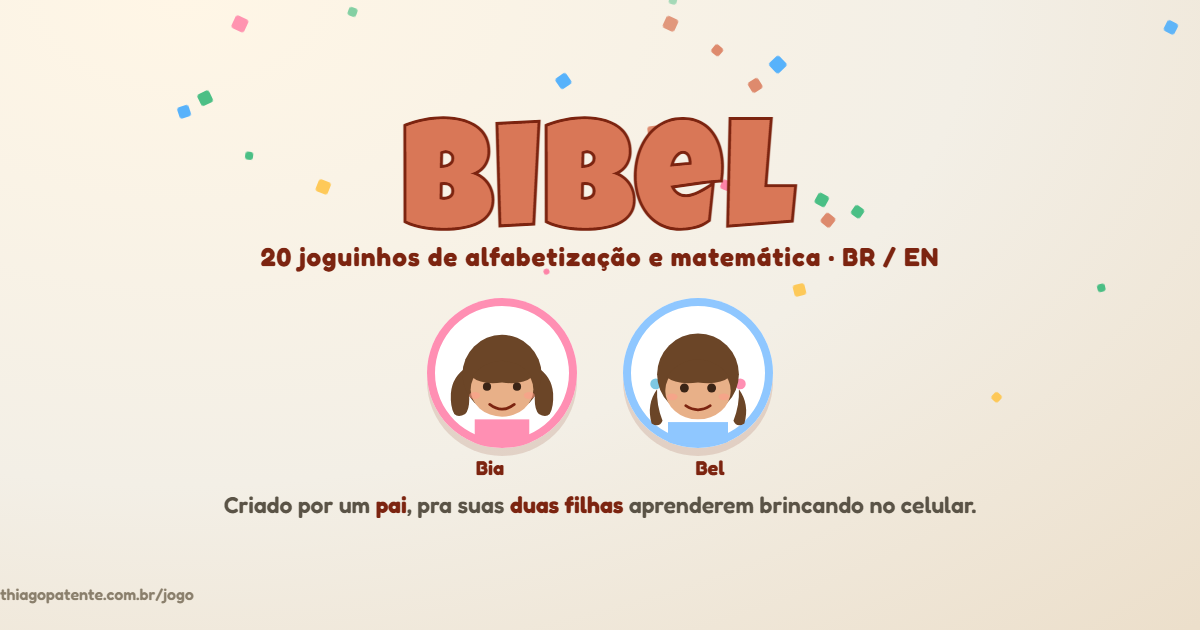
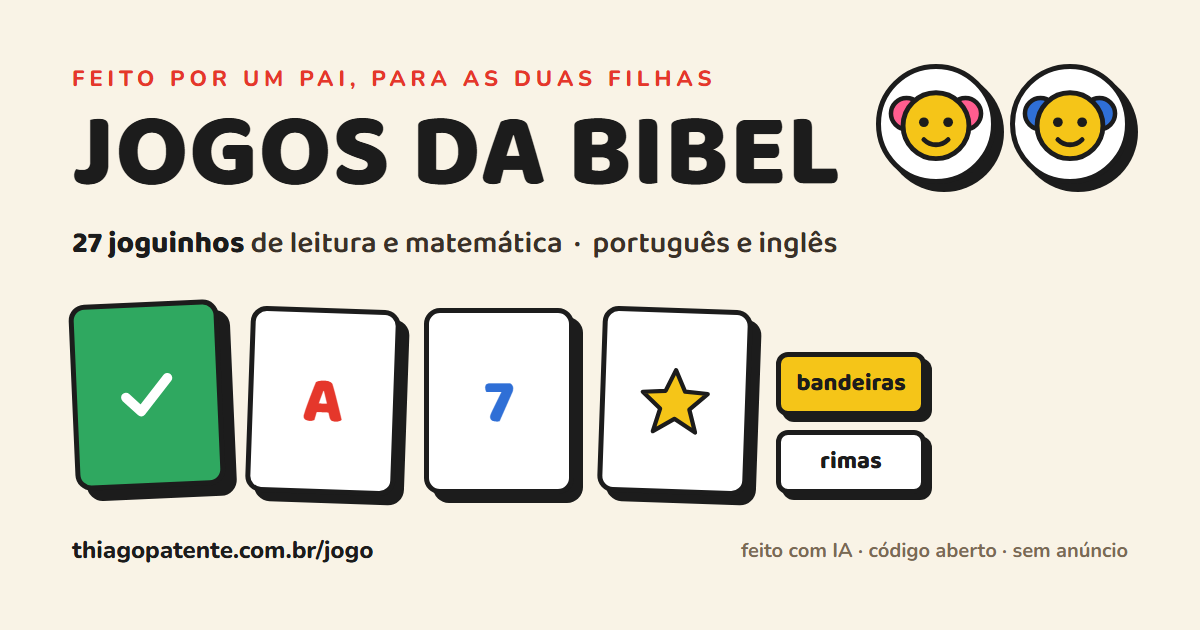
og: card do link no padrao Blocos + textos atualizados
Nova og.png (1200x630, estilo Blocos, 27 jogos, PT/EN, codigo aberto).
og:description reescrita, +og:image:width/height/alt. ?v=2 pra furar
o cache dos scrapers (WhatsApp guarda a imagem antiga).

diff --git a/index.html b/index.html
@@ -1,4 +1,7 @@
-<!doctype html><html lang="pt-BR"><head><meta charset="utf-8"/><meta name="viewport" content="width=device-width,initial-scale=1.0"/><title>Jogos da Bibel</title><meta name="description" content="Coleção de joguinhos de alfabetização para crianças, feitos com IA."><meta property="og:title" content="Jogos da Bibel"><meta property="og:description" content="Joguinhos de alfabetização feitos com IA."><meta property="og:image" content="https://www.thiagopatente.com.br/jogo/og.png"><meta property="og:type" content="website"><meta property="og:url" content="https://www.thiagopatente.com.br/jogo/"><meta name="twitter:card" content="summary_large_image"><meta name="twitter:image" content="https://www.thiagopatente.com.br/jogo/og.png"><link rel="preconnect" href="https://fonts.googleapis.com"><link rel="preconnect" href="https://fonts.gstatic.com" crossorigin><link href="https://fonts.googleapis.com/css2?family=Baloo+2:wght@500;600;700;800&family=Nunito:wght@400;600;700;800&display=swap" rel="stylesheet"><link rel="stylesheet" href="assets/style.css?v=5"><script src="assets/mascotes.js"></script><script src="assets/glyph.js"></script><style>
+<!doctype html><html lang="pt-BR"><head><meta charset="utf-8"/><meta name="viewport" content="width=device-width,initial-scale=1.0"/><title>Jogos da Bibel</title><meta name="description" content="27 joguinhos de leitura e matemática para crianças de 3 a 6 anos, em português e inglês. Feitos com IA, código aberto, sem anúncio."><meta property="og:title" content="Jogos da Bibel"><meta property="og:description" content="27 joguinhos de leitura e matemática, em português e inglês. Feitos por um pai para as duas filhas, com IA. Código aberto, sem anúncio."><meta property="og:image" content="https://www.thiagopatente.com.br/jogo/og.png?v=2">
+<meta property="og:image:width" content="1200">
+<meta property="og:image:height" content="630">
+<meta property="og:image:alt" content="Jogos da Bibel — 27 joguinhos de leitura e matemática, português e inglês"><meta property="og:type" content="website"><meta property="og:url" content="https://www.thiagopatente.com.br/jogo/"><meta name="twitter:card" content="summary_large_image"><meta name="twitter:image" content="https://www.thiagopatente.com.br/jogo/og.png?v=2"><link rel="preconnect" href="https://fonts.googleapis.com"><link rel="preconnect" href="https://fonts.gstatic.com" crossorigin><link href="https://fonts.googleapis.com/css2?family=Baloo+2:wght@500;600;700;800&family=Nunito:wght@400;600;700;800&display=swap" rel="stylesheet"><link rel="stylesheet" href="assets/style.css?v=5"><script src="assets/mascotes.js"></script><script src="assets/glyph.js"></script><style>
 .head{text-align:center;padding:18px 0 6px}.head .k{font-size:14px;letter-spacing:.2em;text-transform:uppercase;color:var(--coral);font-weight:600}
 .head h1{font-size:clamp(40px,12vw,64px);letter-spacing:-.015em}.head p{color:var(--ink-soft);font-size:17px;font-weight:500}
 .turmabar{display:flex;align-items:center;justify-content:center;gap:10px;margin:16px 0 4px;flex-wrap:wrap}

diff --git a/ingles-pra-figura/index.html b/ingles-pra-figura/index.html
@@ -1,4 +1,4 @@
-<!doctype html><html lang="pt-BR"><head><meta charset="utf-8"/><meta name="viewport" content="width=device-width,initial-scale=1.0,maximum-scale=1.0,user-scalable=no"/><title>Do Inglês pra Figura · Jogos da Bibel</title><meta name="description" content="ouça em inglês e toque na figura certa. Jogo de alfabetização feito com IA."><meta property="og:title" content="Do Inglês pra Figura · Jogos da Bibel"><meta property="og:description" content="ouça em inglês e toque na figura certa. Jogo de alfabetização feito com IA."><meta property="og:image" content="https://www.thiagopatente.com.br/jogo/og.png"><meta property="og:type" content="website"><meta property="og:url" content="https://www.thiagopatente.com.br/jogo/ingles-pra-figura/"><link rel="canonical" href="https://www.thiagopatente.com.br/jogo/ingles-pra-figura/"><meta name="twitter:card" content="summary_large_image"><meta name="twitter:image" content="https://www.thiagopatente.com.br/jogo/og.png"><link rel="preconnect" href="https://fonts.googleapis.com"><link rel="preconnect" href="https://fonts.gstatic.com" crossorigin><link href="https://fonts.googleapis.com/css2?family=Baloo+2:wght@500;600;700;800&family=Nunito:wght@400;600;700;800&display=swap" rel="stylesheet"><link rel="stylesheet" href="../assets/style.css?v=5"><script src="../assets/mascotes.js"></script></head><body>
+<!doctype html><html lang="pt-BR"><head><meta charset="utf-8"/><meta name="viewport" content="width=device-width,initial-scale=1.0,maximum-scale=1.0,user-scalable=no"/><title>Do Inglês pra Figura · Jogos da Bibel</title><meta name="description" content="ouça em inglês e toque na figura certa. Jogo de alfabetização feito com IA."><meta property="og:title" content="Do Inglês pra Figura · Jogos da Bibel"><meta property="og:description" content="ouça em inglês e toque na figura certa. Jogo de alfabetização feito com IA."><meta property="og:image" content="https://www.thiagopatente.com.br/jogo/og.png?v=2"><meta property="og:type" content="website"><meta property="og:url" content="https://www.thiagopatente.com.br/jogo/ingles-pra-figura/"><link rel="canonical" href="https://www.thiagopatente.com.br/jogo/ingles-pra-figura/"><meta name="twitter:card" content="summary_large_image"><meta name="twitter:image" content="https://www.thiagopatente.com.br/jogo/og.png?v=2"><link rel="preconnect" href="https://fonts.googleapis.com"><link rel="preconnect" href="https://fonts.gstatic.com" crossorigin><link href="https://fonts.googleapis.com/css2?family=Baloo+2:wght@500;600;700;800&family=Nunito:wght@400;600;700;800&display=swap" rel="stylesheet"><link rel="stylesheet" href="../assets/style.css?v=5"><script src="../assets/mascotes.js"></script></head><body>
 <a class="menu-home" href="../?v=5" title="Menu" aria-label="Voltar ao menu" data-menu>🏠</a>
 <button class="lang-btn" id="langBtn" aria-label="Português / English"><span class="flag pt on"></span><span class="flag en"></span></button>
 <button class="info-btn" id="infoBtn" aria-label="Sobre">ⓘ</button>

diff --git a/emocoes/index.html b/emocoes/index.html
@@ -1,4 +1,4 @@
-<!doctype html><html lang="pt-BR"><head><meta charset="utf-8"/><meta name="viewport" content="width=device-width,initial-scale=1.0,maximum-scale=1.0,user-scalable=no"/><title>Emoções · Jogos da Bibel</title><meta name="description" content="toque em quem está sentindo isso. Jogo de alfabetização feito com IA."><meta property="og:title" content="Emoções · Jogos da Bibel"><meta property="og:description" content="toque em quem está sentindo isso. Jogo de alfabetização feito com IA."><meta property="og:image" content="https://www.thiagopatente.com.br/jogo/og.png"><meta property="og:type" content="website"><meta property="og:url" content="https://www.thiagopatente.com.br/jogo/emocoes/"><link rel="canonical" href="https://www.thiagopatente.com.br/jogo/emocoes/"><meta name="twitter:card" content="summary_large_image"><meta name="twitter:image" content="https://www.thiagopatente.com.br/jogo/og.png"><link rel="preconnect" href="https://fonts.googleapis.com"><link rel="preconnect" href="https://fonts.gstatic.com" crossorigin><link href="https://fonts.googleapis.com/css2?family=Baloo+2:wght@500;600;700;800&family=Nunito:wght@400;600;700;800&display=swap" rel="stylesheet"><link rel="stylesheet" href="../assets/style.css?v=5"><script src="../assets/mascotes.js"></script></head><body>
+<!doctype html><html lang="pt-BR"><head><meta charset="utf-8"/><meta name="viewport" content="width=device-width,initial-scale=1.0,maximum-scale=1.0,user-scalable=no"/><title>Emoções · Jogos da Bibel</title><meta name="description" content="toque em quem está sentindo isso. Jogo de alfabetização feito com IA."><meta property="og:title" content="Emoções · Jogos da Bibel"><meta property="og:description" content="toque em quem está sentindo isso. Jogo de alfabetização feito com IA."><meta property="og:image" content="https://www.thiagopatente.com.br/jogo/og.png?v=2"><meta property="og:type" content="website"><meta property="og:url" content="https://www.thiagopatente.com.br/jogo/emocoes/"><link rel="canonical" href="https://www.thiagopatente.com.br/jogo/emocoes/"><meta name="twitter:card" content="summary_large_image"><meta name="twitter:image" content="https://www.thiagopatente.com.br/jogo/og.png?v=2"><link rel="preconnect" href="https://fonts.googleapis.com"><link rel="preconnect" href="https://fonts.gstatic.com" crossorigin><link href="https://fonts.googleapis.com/css2?family=Baloo+2:wght@500;600;700;800&family=Nunito:wght@400;600;700;800&display=swap" rel="stylesheet"><link rel="stylesheet" href="../assets/style.css?v=5"><script src="../assets/mascotes.js"></script></head><body>
 <a class="menu-home" href="../?v=5" title="Menu" aria-label="Voltar ao menu" data-menu>🏠</a>
 <button class="lang-btn" id="langBtn" aria-label="Português / English"><span class="flag pt on"></span><span class="flag en"></span></button>
 <button class="info-btn" id="infoBtn" aria-label="Sobre">ⓘ</button>

diff --git a/primeira-letra/index.html b/primeira-letra/index.html
@@ -1,4 +1,4 @@
-<!doctype html><html lang="pt-BR"><head><meta charset="utf-8"/><meta name="viewport" content="width=device-width,initial-scale=1.0,maximum-scale=1.0,user-scalable=no"/><title>A Primeira Letra · Jogos da Bibel</title><meta name="description" content="com que letra a palavra começa. Jogo de alfabetização feito com IA."><meta property="og:title" content="A Primeira Letra · Jogos da Bibel"><meta property="og:description" content="com que letra a palavra começa. Jogo de alfabetização feito com IA."><meta property="og:image" content="https://www.thiagopatente.com.br/jogo/og.png"><meta property="og:type" content="website"><meta property="og:url" content="https://www.thiagopatente.com.br/jogo/primeira-letra/"><link rel="canonical" href="https://www.thiagopatente.com.br/jogo/primeira-letra/"><meta name="twitter:card" content="summary_large_image"><meta name="twitter:image" content="https://www.thiagopatente.com.br/jogo/og.png"><link rel="preconnect" href="https://fonts.googleapis.com"><link rel="preconnect" href="https://fonts.gstatic.com" crossorigin><link href="https://fonts.googleapis.com/css2?family=Baloo+2:wght@500;600;700;800&family=Nunito:wght@400;600;700;800&display=swap" rel="stylesheet"><link rel="stylesheet" href="../assets/style.css?v=5"></head><body>
+<!doctype html><html lang="pt-BR"><head><meta charset="utf-8"/><meta name="viewport" content="width=device-width,initial-scale=1.0,maximum-scale=1.0,user-scalable=no"/><title>A Primeira Letra · Jogos da Bibel</title><meta name="description" content="com que letra a palavra começa. Jogo de alfabetização feito com IA."><meta property="og:title" content="A Primeira Letra · Jogos da Bibel"><meta property="og:description" content="com que letra a palavra começa. Jogo de alfabetização feito com IA."><meta property="og:image" content="https://www.thiagopatente.com.br/jogo/og.png?v=2"><meta property="og:type" content="website"><meta property="og:url" content="https://www.thiagopatente.com.br/jogo/primeira-letra/"><link rel="canonical" href="https://www.thiagopatente.com.br/jogo/primeira-letra/"><meta name="twitter:card" content="summary_large_image"><meta name="twitter:image" content="https://www.thiagopatente.com.br/jogo/og.png?v=2"><link rel="preconnect" href="https://fonts.googleapis.com"><link rel="preconnect" href="https://fonts.gstatic.com" crossorigin><link href="https://fonts.googleapis.com/css2?family=Baloo+2:wght@500;600;700;800&family=Nunito:wght@400;600;700;800&display=swap" rel="stylesheet"><link rel="stylesheet" href="../assets/style.css?v=5"></head><body>
 <a class="menu-home" href="../?v=5" title="Menu" aria-label="Voltar ao menu" data-menu>🏠</a>
 <button class="lang-btn" id="langBtn" aria-label="Português / English"><span class="flag pt on"></span><span class="flag en"></span></button>
 <button class="info-btn" id="infoBtn" aria-label="Sobre">ⓘ</button>

diff --git a/partes-do-corpo/index.html b/partes-do-corpo/index.html
@@ -1,4 +1,4 @@
-<!doctype html><html lang="pt-BR"><head><meta charset="utf-8"/><meta name="viewport" content="width=device-width,initial-scale=1.0,maximum-scale=1.0,user-scalable=no"/><title>Partes do Corpo · Jogos da Bibel</title><meta name="description" content="toque na parte certa do corpo. Jogo de alfabetização feito com IA."><meta property="og:title" content="Partes do Corpo · Jogos da Bibel"><meta property="og:description" content="toque na parte certa do corpo. Jogo de alfabetização feito com IA."><meta property="og:image" content="https://www.thiagopatente.com.br/jogo/og.png"><meta property="og:type" content="website"><meta property="og:url" content="https://www.thiagopatente.com.br/jogo/partes-do-corpo/"><link rel="canonical" href="https://www.thiagopatente.com.br/jogo/partes-do-corpo/"><meta name="twitter:card" content="summary_large_image"><meta name="twitter:image" content="https://www.thiagopatente.com.br/jogo/og.png"><link rel="preconnect" href="https://fonts.googleapis.com"><link rel="preconnect" href="https://fonts.gstatic.com" crossorigin><link href="https://fonts.googleapis.com/css2?family=Baloo+2:wght@500;600;700;800&family=Nunito:wght@400;600;700;800&display=swap" rel="stylesheet"><link rel="stylesheet" href="../assets/style.css?v=5"></head><body>
+<!doctype html><html lang="pt-BR"><head><meta charset="utf-8"/><meta name="viewport" content="width=device-width,initial-scale=1.0,maximum-scale=1.0,user-scalable=no"/><title>Partes do Corpo · Jogos da Bibel</title><meta name="description" content="toque na parte certa do corpo. Jogo de alfabetização feito com IA."><meta property="og:title" content="Partes do Corpo · Jogos da Bibel"><meta property="og:description" content="toque na parte certa do corpo. Jogo de alfabetização feito com IA."><meta property="og:image" content="https://www.thiagopatente.com.br/jogo/og.png?v=2"><meta property="og:type" content="website"><meta property="og:url" content="https://www.thiagopatente.com.br/jogo/partes-do-corpo/"><link rel="canonical" href="https://www.thiagopatente.com.br/jogo/partes-do-corpo/"><meta name="twitter:card" content="summary_large_image"><meta name="twitter:image" content="https://www.thiagopatente.com.br/jogo/og.png?v=2"><link rel="preconnect" href="https://fonts.googleapis.com"><link rel="preconnect" href="https://fonts.gstatic.com" crossorigin><link href="https://fonts.googleapis.com/css2?family=Baloo+2:wght@500;600;700;800&family=Nunito:wght@400;600;700;800&display=swap" rel="stylesheet"><link rel="stylesheet" href="../assets/style.css?v=5"></head><body>
 <a class="menu-home" href="../?v=5" title="Menu" aria-label="Voltar ao menu" data-menu>🏠</a>
 <button class="lang-btn" id="langBtn" aria-label="Português / English"><span class="flag pt on"></span><span class="flag en"></span></button>
 <button class="info-btn" id="infoBtn" aria-label="Sobre">ⓘ</button>

diff --git a/sons-dos-bichos/index.html b/sons-dos-bichos/index.html
@@ -1,4 +1,4 @@
-<!doctype html><html lang="pt-BR"><head><meta charset="utf-8"/><meta name="viewport" content="width=device-width,initial-scale=1.0,maximum-scale=1.0,user-scalable=no"/><title>Sons dos Bichos · Jogos da Bibel</title><meta name="description" content="toque no bicho que faz o som. Jogo de alfabetização feito com IA."><meta property="og:title" content="Sons dos Bichos · Jogos da Bibel"><meta property="og:description" content="toque no bicho que faz o som. Jogo de alfabetização feito com IA."><meta property="og:image" content="https://www.thiagopatente.com.br/jogo/og.png"><meta property="og:type" content="website"><meta property="og:url" content="https://www.thiagopatente.com.br/jogo/sons-dos-bichos/"><link rel="canonical" href="https://www.thiagopatente.com.br/jogo/sons-dos-bichos/"><meta name="twitter:card" content="summary_large_image"><meta name="twitter:image" content="https://www.thiagopatente.com.br/jogo/og.png"><link rel="preconnect" href="https://fonts.googleapis.com"><link rel="preconnect" href="https://fonts.gstatic.com" crossorigin><link href="https://fonts.googleapis.com/css2?family=Baloo+2:wght@500;600;700;800&family=Nunito:wght@400;600;700;800&display=swap" rel="stylesheet"><link rel="stylesheet" href="../assets/style.css?v=5"></head><body>
+<!doctype html><html lang="pt-BR"><head><meta charset="utf-8"/><meta name="viewport" content="width=device-width,initial-scale=1.0,maximum-scale=1.0,user-scalable=no"/><title>Sons dos Bichos · Jogos da Bibel</title><meta name="description" content="toque no bicho que faz o som. Jogo de alfabetização feito com IA."><meta property="og:title" content="Sons dos Bichos · Jogos da Bibel"><meta property="og:description" content="toque no bicho que faz o som. Jogo de alfabetização feito com IA."><meta property="og:image" content="https://www.thiagopatente.com.br/jogo/og.png?v=2"><meta property="og:type" content="website"><meta property="og:url" content="https://www.thiagopatente.com.br/jogo/sons-dos-bichos/"><link rel="canonical" href="https://www.thiagopatente.com.br/jogo/sons-dos-bichos/"><meta name="twitter:card" content="summary_large_image"><meta name="twitter:image" content="https://www.thiagopatente.com.br/jogo/og.png?v=2"><link rel="preconnect" href="https://fonts.googleapis.com"><link rel="preconnect" href="https://fonts.gstatic.com" crossorigin><link href="https://fonts.googleapis.com/css2?family=Baloo+2:wght@500;600;700;800&family=Nunito:wght@400;600;700;800&display=swap" rel="stylesheet"><link rel="stylesheet" href="../assets/style.css?v=5"></head><body>
 <a class="menu-home" href="../?v=5" title="Menu" aria-label="Voltar ao menu" data-menu>🏠</a>
 <button class="lang-btn" id="langBtn" aria-label="Português / English"><span class="flag pt on"></span><span class="flag en"></span></button>
 <button class="info-btn" id="infoBtn" aria-label="Sobre">ⓘ</button>

diff --git a/silabas/index.html b/silabas/index.html
@@ -1,4 +1,4 @@
-<!doctype html><html lang="pt-BR"><head><meta charset="utf-8"/><meta name="viewport" content="width=device-width,initial-scale=1.0,maximum-scale=1.0,user-scalable=no"/><title>Monta a Sílaba · Jogos da Bibel</title><meta name="description" content="junte as sílabas e forme a palavra. Jogo de alfabetização feito com IA."><meta property="og:title" content="Monta a Sílaba · Jogos da Bibel"><meta property="og:description" content="junte as sílabas e forme a palavra. Jogo de alfabetização feito com IA."><meta property="og:image" content="https://www.thiagopatente.com.br/jogo/og.png"><meta property="og:type" content="website"><meta property="og:url" content="https://www.thiagopatente.com.br/jogo/silabas/"><link rel="canonical" href="https://www.thiagopatente.com.br/jogo/silabas/"><meta name="twitter:card" content="summary_large_image"><meta name="twitter:image" content="https://www.thiagopatente.com.br/jogo/og.png"><link rel="preconnect" href="https://fonts.googleapis.com"><link rel="preconnect" href="https://fonts.gstatic.com" crossorigin><link href="https://fonts.googleapis.com/css2?family=Baloo+2:wght@500;600;700;800&family=Nunito:wght@400;600;700;800&display=swap" rel="stylesheet"><link rel="stylesheet" href="../assets/style.css?v=5"></head><body>
+<!doctype html><html lang="pt-BR"><head><meta charset="utf-8"/><meta name="viewport" content="width=device-width,initial-scale=1.0,maximum-scale=1.0,user-scalable=no"/><title>Monta a Sílaba · Jogos da Bibel</title><meta name="description" content="junte as sílabas e forme a palavra. Jogo de alfabetização feito com IA."><meta property="og:title" content="Monta a Sílaba · Jogos da Bibel"><meta property="og:description" content="junte as sílabas e forme a palavra. Jogo de alfabetização feito com IA."><meta property="og:image" content="https://www.thiagopatente.com.br/jogo/og.png?v=2"><meta property="og:type" content="website"><meta property="og:url" content="https://www.thiagopatente.com.br/jogo/silabas/"><link rel="canonical" href="https://www.thiagopatente.com.br/jogo/silabas/"><meta name="twitter:card" content="summary_large_image"><meta name="twitter:image" content="https://www.thiagopatente.com.br/jogo/og.png?v=2"><link rel="preconnect" href="https://fonts.googleapis.com"><link rel="preconnect" href="https://fonts.gstatic.com" crossorigin><link href="https://fonts.googleapis.com/css2?family=Baloo+2:wght@500;600;700;800&family=Nunito:wght@400;600;700;800&display=swap" rel="stylesheet"><link rel="stylesheet" href="../assets/style.css?v=5"></head><body>
 <a class="menu-home" href="../?v=5" title="Menu" aria-label="Voltar ao menu" data-menu>🏠</a>
 <button class="lang-btn" id="langBtn" aria-label="Português / English"><span class="flag pt on"></span><span class="flag en"></span></button>
 <button class="info-btn" id="infoBtn" aria-label="Sobre">ⓘ</button>

diff --git a/som-da-letra/index.html b/som-da-letra/index.html
@@ -1,4 +1,4 @@
-<!doctype html><html lang="pt-BR"><head><meta charset="utf-8"/><meta name="viewport" content="width=device-width,initial-scale=1.0,maximum-scale=1.0,user-scalable=no"/><title>O Som da Letra · Jogos da Bibel</title><meta name="description" content="qual figura começa com a letra. Jogo de alfabetização feito com IA."><meta property="og:title" content="O Som da Letra · Jogos da Bibel"><meta property="og:description" content="qual figura começa com a letra. Jogo de alfabetização feito com IA."><meta property="og:image" content="https://www.thiagopatente.com.br/jogo/og.png"><meta property="og:type" content="website"><meta property="og:url" content="https://www.thiagopatente.com.br/jogo/som-da-letra/"><link rel="canonical" href="https://www.thiagopatente.com.br/jogo/som-da-letra/"><meta name="twitter:card" content="summary_large_image"><meta name="twitter:image" content="https://www.thiagopatente.com.br/jogo/og.png"><link rel="preconnect" href="https://fonts.googleapis.com"><link rel="preconnect" href="https://fonts.gstatic.com" crossorigin><link href="https://fonts.googleapis.com/css2?family=Baloo+2:wght@500;600;700;800&family=Nunito:wght@400;600;700;800&display=swap" rel="stylesheet"><link rel="stylesheet" href="../assets/style.css?v=5"></head><body>
+<!doctype html><html lang="pt-BR"><head><meta charset="utf-8"/><meta name="viewport" content="width=device-width,initial-scale=1.0,maximum-scale=1.0,user-scalable=no"/><title>O Som da Letra · Jogos da Bibel</title><meta name="description" content="qual figura começa com a letra. Jogo de alfabetização feito com IA."><meta property="og:title" content="O Som da Letra · Jogos da Bibel"><meta property="og:description" content="qual figura começa com a letra. Jogo de alfabetização feito com IA."><meta property="og:image" content="https://www.thiagopatente.com.br/jogo/og.png?v=2"><meta property="og:type" content="website"><meta property="og:url" content="https://www.thiagopatente.com.br/jogo/som-da-letra/"><link rel="canonical" href="https://www.thiagopatente.com.br/jogo/som-da-letra/"><meta name="twitter:card" content="summary_large_image"><meta name="twitter:image" content="https://www.thiagopatente.com.br/jogo/og.png?v=2"><link rel="preconnect" href="https://fonts.googleapis.com"><link rel="preconnect" href="https://fonts.gstatic.com" crossorigin><link href="https://fonts.googleapis.com/css2?family=Baloo+2:wght@500;600;700;800&family=Nunito:wght@400;600;700;800&display=swap" rel="stylesheet"><link rel="stylesheet" href="../assets/style.css?v=5"></head><body>
 <a class="menu-home" href="../?v=5" title="Menu" aria-label="Voltar ao menu" data-menu>🏠</a>
 <button class="lang-btn" id="langBtn" aria-label="Português / English"><span class="flag pt on"></span><span class="flag en"></span></button>
 <button class="info-btn" id="infoBtn" aria-label="Sobre">ⓘ</button>

diff --git a/rotina/index.html b/rotina/index.html
@@ -1,4 +1,4 @@
-<!doctype html><html lang="pt-BR"><head><meta charset="utf-8"/><meta name="viewport" content="width=device-width,initial-scale=1.0,maximum-scale=1.0,user-scalable=no"/><title>Rotina · Jogos da Bibel</title><meta name="description" content="manhã, tarde ou noite? Jogo de alfabetização feito com IA."><meta property="og:title" content="Rotina · Jogos da Bibel"><meta property="og:description" content="manhã, tarde ou noite? Jogo de alfabetização feito com IA."><meta property="og:image" content="https://www.thiagopatente.com.br/jogo/og.png"><meta property="og:type" content="website"><meta property="og:url" content="https://www.thiagopatente.com.br/jogo/rotina/"><link rel="canonical" href="https://www.thiagopatente.com.br/jogo/rotina/"><meta name="twitter:card" content="summary_large_image"><meta name="twitter:image" content="https://www.thiagopatente.com.br/jogo/og.png"><link rel="preconnect" href="https://fonts.googleapis.com"><link rel="preconnect" href="https://fonts.gstatic.com" crossorigin><link href="https://fonts.googleapis.com/css2?family=Baloo+2:wght@500;600;700;800&family=Nunito:wght@400;600;700;800&display=swap" rel="stylesheet"><link rel="stylesheet" href="../assets/style.css?v=5"><script src="../assets/mascotes.js"></script></head><body>
+<!doctype html><html lang="pt-BR"><head><meta charset="utf-8"/><meta name="viewport" content="width=device-width,initial-scale=1.0,maximum-scale=1.0,user-scalable=no"/><title>Rotina · Jogos da Bibel</title><meta name="description" content="manhã, tarde ou noite? Jogo de alfabetização feito com IA."><meta property="og:title" content="Rotina · Jogos da Bibel"><meta property="og:description" content="manhã, tarde ou noite? Jogo de alfabetização feito com IA."><meta property="og:image" content="https://www.thiagopatente.com.br/jogo/og.png?v=2"><meta property="og:type" content="website"><meta property="og:url" content="https://www.thiagopatente.com.br/jogo/rotina/"><link rel="canonical" href="https://www.thiagopatente.com.br/jogo/rotina/"><meta name="twitter:card" content="summary_large_image"><meta name="twitter:image" content="https://www.thiagopatente.com.br/jogo/og.png?v=2"><link rel="preconnect" href="https://fonts.googleapis.com"><link rel="preconnect" href="https://fonts.gstatic.com" crossorigin><link href="https://fonts.googleapis.com/css2?family=Baloo+2:wght@500;600;700;800&family=Nunito:wght@400;600;700;800&display=swap" rel="stylesheet"><link rel="stylesheet" href="../assets/style.css?v=5"><script src="../assets/mascotes.js"></script></head><body>
 <a class="menu-home" href="../?v=5" title="Menu" aria-label="Voltar ao menu" data-menu>🏠</a>
 <button class="lang-btn" id="langBtn" aria-label="Português / English"><span class="flag pt on"></span><span class="flag en"></span></button>
 <button class="info-btn" id="infoBtn" aria-label="Sobre">ⓘ</button>

diff --git a/caca-letra/index.html b/caca-letra/index.html
@@ -1,4 +1,4 @@
-<!doctype html><html lang="pt-BR"><head><meta charset="utf-8"/><meta name="viewport" content="width=device-width,initial-scale=1.0,maximum-scale=1.0,user-scalable=no"/><title>Caça à Letra · Jogos da Bibel</title><meta name="description" content="toque em todas as letras iguais. Jogo de alfabetização feito com IA."><meta property="og:title" content="Caça à Letra · Jogos da Bibel"><meta property="og:description" content="toque em todas as letras iguais. Jogo de alfabetização feito com IA."><meta property="og:image" content="https://www.thiagopatente.com.br/jogo/og.png"><meta property="og:type" content="website"><meta property="og:url" content="https://www.thiagopatente.com.br/jogo/caca-letra/"><link rel="canonical" href="https://www.thiagopatente.com.br/jogo/caca-letra/"><meta name="twitter:card" content="summary_large_image"><meta name="twitter:image" content="https://www.thiagopatente.com.br/jogo/og.png"><link rel="preconnect" href="https://fonts.googleapis.com"><link rel="preconnect" href="https://fonts.gstatic.com" crossorigin><link href="https://fonts.googleapis.com/css2?family=Baloo+2:wght@500;600;700;800&family=Nunito:wght@400;600;700;800&display=swap" rel="stylesheet"><link rel="stylesheet" href="../assets/style.css?v=5"></head><body>
+<!doctype html><html lang="pt-BR"><head><meta charset="utf-8"/><meta name="viewport" content="width=device-width,initial-scale=1.0,maximum-scale=1.0,user-scalable=no"/><title>Caça à Letra · Jogos da Bibel</title><meta name="description" content="toque em todas as letras iguais. Jogo de alfabetização feito com IA."><meta property="og:title" content="Caça à Letra · Jogos da Bibel"><meta property="og:description" content="toque em todas as letras iguais. Jogo de alfabetização feito com IA."><meta property="og:image" content="https://www.thiagopatente.com.br/jogo/og.png?v=2"><meta property="og:type" content="website"><meta property="og:url" content="https://www.thiagopatente.com.br/jogo/caca-letra/"><link rel="canonical" href="https://www.thiagopatente.com.br/jogo/caca-letra/"><meta name="twitter:card" content="summary_large_image"><meta name="twitter:image" content="https://www.thiagopatente.com.br/jogo/og.png?v=2"><link rel="preconnect" href="https://fonts.googleapis.com"><link rel="preconnect" href="https://fonts.gstatic.com" crossorigin><link href="https://fonts.googleapis.com/css2?family=Baloo+2:wght@500;600;700;800&family=Nunito:wght@400;600;700;800&display=swap" rel="stylesheet"><link rel="stylesheet" href="../assets/style.css?v=5"></head><body>
 <a class="menu-home" href="../?v=5" title="Menu" aria-label="Voltar ao menu" data-menu>🏠</a>
 <button class="lang-btn" id="langBtn" aria-label="Português / English"><span class="flag pt on"></span><span class="flag en"></span></button>
 <button class="info-btn" id="infoBtn" aria-label="Sobre">ⓘ</button>

diff --git a/sombras/index.html b/sombras/index.html
@@ -1,4 +1,4 @@
-<!doctype html><html lang="pt-BR"><head><meta charset="utf-8"/><meta name="viewport" content="width=device-width,initial-scale=1.0,maximum-scale=1.0,user-scalable=no"/><title>A Sombra Certa · Jogos da Bibel</title><meta name="description" content="ache cada figura e a sua sombra. Jogo de alfabetização feito com IA."><meta property="og:title" content="A Sombra Certa · Jogos da Bibel"><meta property="og:description" content="ache cada figura e a sua sombra. Jogo de alfabetização feito com IA."><meta property="og:image" content="https://www.thiagopatente.com.br/jogo/og.png"><meta property="og:type" content="website"><meta property="og:url" content="https://www.thiagopatente.com.br/jogo/sombras/"><link rel="canonical" href="https://www.thiagopatente.com.br/jogo/sombras/"><meta name="twitter:card" content="summary_large_image"><meta name="twitter:image" content="https://www.thiagopatente.com.br/jogo/og.png"><link rel="preconnect" href="https://fonts.googleapis.com"><link rel="preconnect" href="https://fonts.gstatic.com" crossorigin><link href="https://fonts.googleapis.com/css2?family=Baloo+2:wght@500;600;700;800&family=Nunito:wght@400;600;700;800&display=swap" rel="stylesheet"><link rel="stylesheet" href="../assets/style.css?v=5"></head><body>
+<!doctype html><html lang="pt-BR"><head><meta charset="utf-8"/><meta name="viewport" content="width=device-width,initial-scale=1.0,maximum-scale=1.0,user-scalable=no"/><title>A Sombra Certa · Jogos da Bibel</title><meta name="description" content="ache cada figura e a sua sombra. Jogo de alfabetização feito com IA."><meta property="og:title" content="A Sombra Certa · Jogos da Bibel"><meta property="og:description" content="ache cada figura e a sua sombra. Jogo de alfabetização feito com IA."><meta property="og:image" content="https://www.thiagopatente.com.br/jogo/og.png?v=2"><meta property="og:type" content="website"><meta property="og:url" content="https://www.thiagopatente.com.br/jogo/sombras/"><link rel="canonical" href="https://www.thiagopatente.com.br/jogo/sombras/"><meta name="twitter:card" content="summary_large_image"><meta name="twitter:image" content="https://www.thiagopatente.com.br/jogo/og.png?v=2"><link rel="preconnect" href="https://fonts.googleapis.com"><link rel="preconnect" href="https://fonts.gstatic.com" crossorigin><link href="https://fonts.googleapis.com/css2?family=Baloo+2:wght@500;600;700;800&family=Nunito:wght@400;600;700;800&display=swap" rel="stylesheet"><link rel="stylesheet" href="../assets/style.css?v=5"></head><body>
 <a class="menu-home" href="../?v=5" title="Menu" aria-label="Voltar ao menu" data-menu>🏠</a>
 <button class="lang-btn" id="langBtn" aria-label="Português / English"><span class="flag pt on"></span><span class="flag en"></span></button>
 <button class="info-btn" id="infoBtn" aria-label="Sobre">ⓘ</button>

diff --git a/contar/index.html b/contar/index.html
@@ -1,4 +1,4 @@
-<!doctype html><html lang="pt-BR"><head><meta charset="utf-8"/><meta name="viewport" content="width=device-width,initial-scale=1.0,maximum-scale=1.0,user-scalable=no"/><title>Conta os Bichos · Jogos da Bibel</title><meta name="description" content="conte e toque no número certo. Jogo de alfabetização feito com IA."><meta property="og:title" content="Conta os Bichos · Jogos da Bibel"><meta property="og:description" content="conte e toque no número certo. Jogo de alfabetização feito com IA."><meta property="og:image" content="https://www.thiagopatente.com.br/jogo/og.png"><meta property="og:type" content="website"><meta property="og:url" content="https://www.thiagopatente.com.br/jogo/contar/"><link rel="canonical" href="https://www.thiagopatente.com.br/jogo/contar/"><meta name="twitter:card" content="summary_large_image"><meta name="twitter:image" content="https://www.thiagopatente.com.br/jogo/og.png"><link rel="preconnect" href="https://fonts.googleapis.com"><link rel="preconnect" href="https://fonts.gstatic.com" crossorigin><link href="https://fonts.googleapis.com/css2?family=Baloo+2:wght@500;600;700;800&family=Nunito:wght@400;600;700;800&display=swap" rel="stylesheet"><link rel="stylesheet" href="../assets/style.css?v=5"></head><body>
+<!doctype html><html lang="pt-BR"><head><meta charset="utf-8"/><meta name="viewport" content="width=device-width,initial-scale=1.0,maximum-scale=1.0,user-scalable=no"/><title>Conta os Bichos · Jogos da Bibel</title><meta name="description" content="conte e toque no número certo. Jogo de alfabetização feito com IA."><meta property="og:title" content="Conta os Bichos · Jogos da Bibel"><meta property="og:description" content="conte e toque no número certo. Jogo de alfabetização feito com IA."><meta property="og:image" content="https://www.thiagopatente.com.br/jogo/og.png?v=2"><meta property="og:type" content="website"><meta property="og:url" content="https://www.thiagopatente.com.br/jogo/contar/"><link rel="canonical" href="https://www.thiagopatente.com.br/jogo/contar/"><meta name="twitter:card" content="summary_large_image"><meta name="twitter:image" content="https://www.thiagopatente.com.br/jogo/og.png?v=2"><link rel="preconnect" href="https://fonts.googleapis.com"><link rel="preconnect" href="https://fonts.gstatic.com" crossorigin><link href="https://fonts.googleapis.com/css2?family=Baloo+2:wght@500;600;700;800&family=Nunito:wght@400;600;700;800&display=swap" rel="stylesheet"><link rel="stylesheet" href="../assets/style.css?v=5"></head><body>
 <a class="menu-home" href="../?v=5" title="Menu" aria-label="Voltar ao menu" data-menu>🏠</a>
 <button class="lang-btn" id="langBtn" aria-label="Português / English"><span class="flag pt on"></span><span class="flag en"></span></button>
 <button class="info-btn" id="infoBtn" aria-label="Sobre">ⓘ</button>
